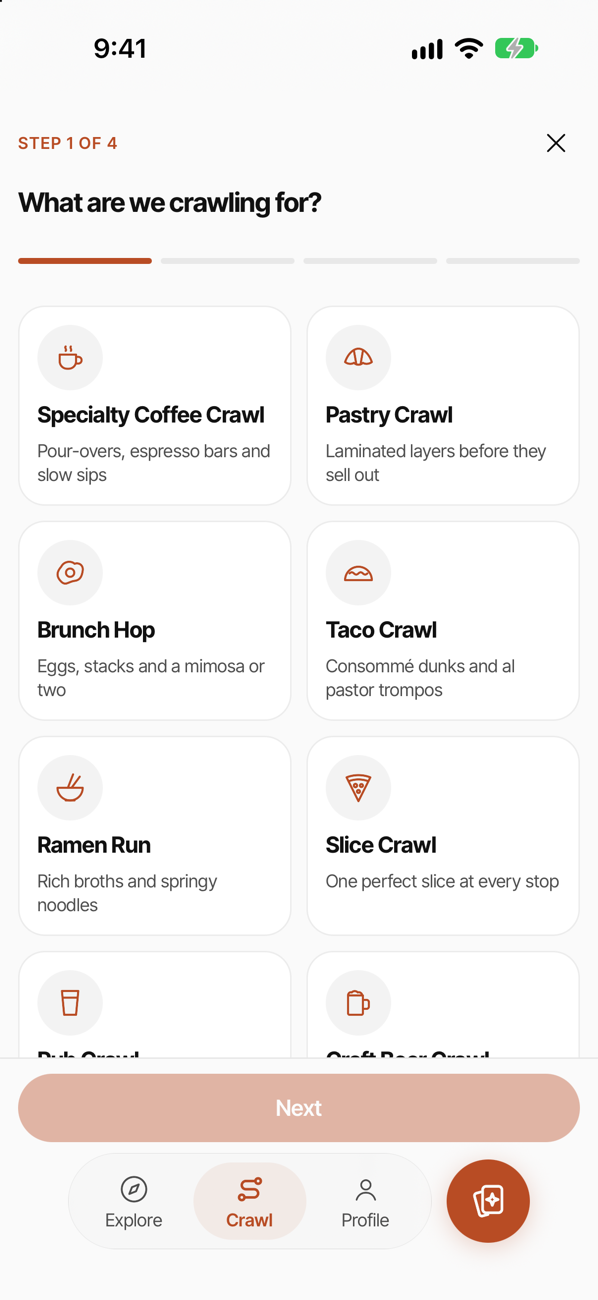
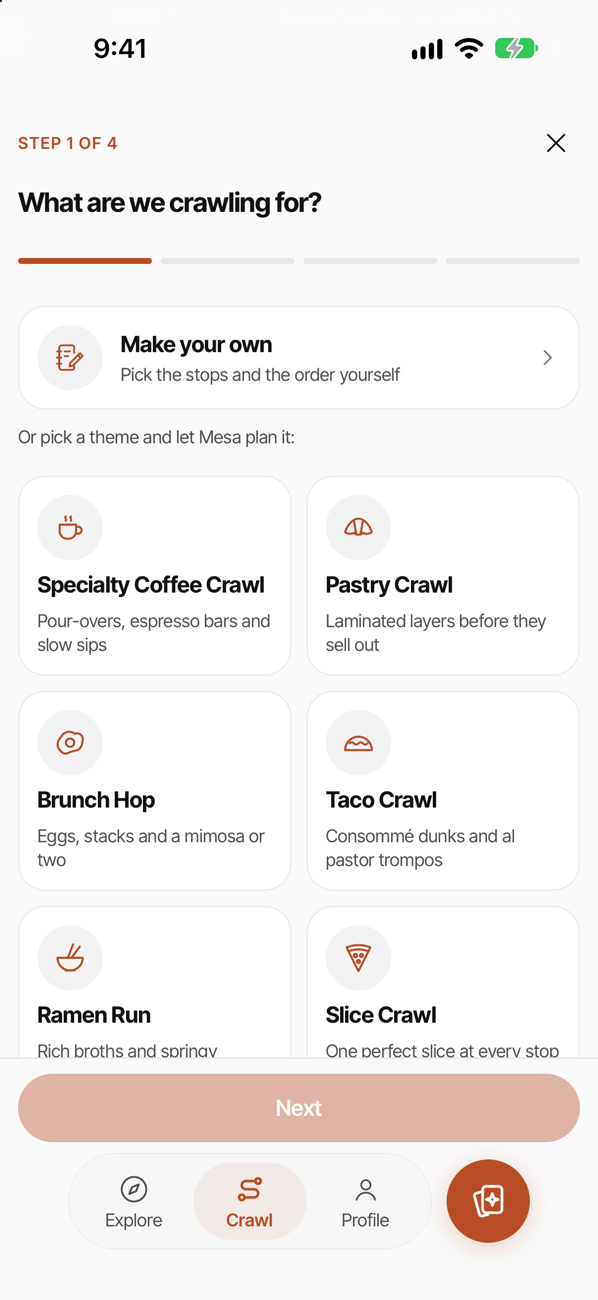
Update landing features and screenshots for friends, lists and custom crawls
New screenshots of Explore, place page, Crawl tab, a shared crawl, a shared
list and the redesigned profile; drop the old Saved shot. Add Friends and
Lists sections. Support covers opening a crawl route in Maps, picking a start
point and the new profile layout; privacy names Apple Maps and Google Maps for
directions; terms cover crawls you make and the word filter on crawl text.

diff --git a/content/terms.md b/content/terms.md
@@ -34,7 +34,7 @@ Mesa ranks places using what you tell it, information from Google Maps, public r
 
 - **Information can be wrong.** Hours, prices, menus and whether a place is open come from third parties and can lag behind real life. Check with the place before you go.
 - **Places are independent.** Mesa isn't affiliated with the places it shows and isn't responsible for their food, service, prices or premises.
-- **Routes are estimates.** Walking and driving times and crawl routes are approximate. Follow local laws, road signs and your own judgment, and pay attention to where you're going.
+- **Routes are estimates.** Walking and driving times and crawl routes are approximate. Directions you open in Apple Maps or Google Maps come from those apps, under their own terms. Follow local laws, road signs and your own judgment, and pay attention to where you're going.
 
 ## No paid rankings
 
@@ -63,7 +63,7 @@ Don't:
 - reverse engineer the app or our server, except where the law allows it;
 - interfere with Mesa or put an unreasonable load on it;
 - upload a photo you don't have the right to use, or anything unlawful, sexual or hateful;
-- put anything hateful, sexual, threatening or misleading in a name, username, bio, list or anything else other people can see;
+- put anything hateful, sexual, threatening or misleading in a name, username, bio, list, crawl or anything else other people can see;
 - pretend to be someone else, or send friend requests or links to people who've made clear they don't want them;
 - use Mesa to break the law or to harass anyone.
 
@@ -74,12 +74,12 @@ Mesa lets you add friends and share crawls and lists with them or by link. There
 - You decide who sees what. Crawls and lists are private until you share them, and you can make them private again.
 - You're responsible for what you share and who you send links to. Anyone with a link set to "Anyone with the link" can open it.
 - You can **block** anyone, which hides you from each other and ends the friendship, and you can **report** a person, a crawl or a list from the screen it's on. We review reports within 24 hours, and remove content and close accounts that break these terms.
-- Names, usernames, bios and list titles pass an automatic word filter. It won't catch everything, which is what reports are for.
+- Names, usernames, bios, list names and descriptions, and crawl titles, descriptions and notes pass an automatic word filter. It won't catch everything, which is what reports are for.
 - A friend's crawl or list is their suggestion, not ours. Check details yourself before you go.
 
 ## Your content
 
-Your profile photo, name, username, bio, preferences, lists and anything you type into Mesa stay yours. You give us permission to store, process and display them only as needed to run Mesa for you, which includes showing what you share to the people you share it with. That includes sending them to the service providers named in the [privacy policy](/privacy/#who-we-share-data-with): Supabase for storage, Amazon Web Services for hosting, Google for maps and place search, and Anthropic for AI picks if you turn them on. We don't sell your content or use it to train AI models.
+Your profile photo, name, username, bio, preferences, lists, the crawls you make and anything you type into Mesa stay yours. You give us permission to store, process and display them only as needed to run Mesa for you, which includes showing what you share to the people you share it with. That includes sending them to the service providers named in the [privacy policy](/privacy/#who-we-share-data-with): Supabase for storage, Amazon Web Services for hosting, Google for maps and place search, and Anthropic for AI picks if you turn them on. We don't sell your content or use it to train AI models.
 
 We may use totals that don't identify anyone, such as how many searches Mesa ran in a day, to run and improve Mesa.
 

diff --git a/content/support.md b/content/support.md
@@ -30,7 +30,7 @@ Yes. Tap the location pill at the top of Explore, then search for a neighborhood
 
 ### How do I change what Mesa suggests?
 
-Tap the round sliders button at the top of Explore, or Profile → My taste. Set your vibes, budget, cuisines, allergies and diet, and how far you'll walk or drive. You can add your own words too, like "rooftop" or "dim sum". Your picks update right away.
+Tap the round sliders button at the top of Explore or Profile. Set your vibes, budget, cuisines, allergies and diet, and how far you'll walk or drive. You can add your own words too, like "rooftop" or "dim sum". Your picks update right away.
 
 ### What does the match % mean?
 
@@ -99,6 +99,14 @@ Open the Crawl tab. Pick a theme, add a vibe or two if you like, choose walking 
 
 Yes. On the Crawl tab, tap "Make your own". Give it a title, add 2 to 8 places from search or your saved spots, and put them in the order you want. You can also add a place from its page with the crawl button at the top. Mesa works out the walking or driving time between stops and tells you if a place will be closed when you'd get there. "Best order" finds the shortest route.
 
+### Can I get directions for the whole crawl?
+
+Open the crawl and tap "Open route in Maps", then pick Apple Maps or Google Maps. Every stop goes in, in order, starting from where you are. On iPhones older than iOS 18.4, Apple Maps only takes the first stop, so add the rest there or use Google Maps. "Copy addresses" gives you the list to paste anywhere.
+
+### Can I start a crawl somewhere other than where I am?
+
+Yes. Tap "Change" next to "Starting from" and pick another neighborhood or address. It works the same for crawls Mesa plans, crawls you make yourself, and Wildcard ("Looking near"). Explore keeps using your own location.
+
 ### Can I change a crawl after it's saved?
 
 Open it and tap the edit button at the top. You can add, remove and reorder stops, add notes, or change the start, on crawls you made and on ones Mesa planned. A finished crawl can't be edited.
@@ -123,11 +131,11 @@ Save it to keep it on your profile, tap "I'm in" to let them know you're coming,
 
 ### How do I add a friend?
 
-Profile → Friends. Type their username and tap Find to open their page, then "Add friend". You're friends once they accept. If you invite someone to Mesa with one of your invite codes, you're friends as soon as they use it.
+On Profile, tap "Find friends" (or your friend count once you have some). Type their username and tap Find to open their page, then "Add friend". You're friends once they accept. If you invite someone to Mesa with one of your invite codes, you're friends as soon as they use it.
 
 ### Where are my invite codes?
 
-Profile → Friends → Your invite codes, while Mesa is invite-only. Each code lets one person in. Tap "Send" to share one.
+On Profile, tap your friends, then "Your invite codes". They're there while Mesa is invite-only. Each code lets one person in. Tap "Send" to share one.
 
 ### What can my friends see?
 
@@ -135,7 +143,7 @@ Your name, username, photo and bio, your profile counts (spots saved, cities, cr
 
 ### How do I remove a friend?
 
-Tap their photo on your Profile (or Profile → Friends and their name), then "Remove friend". They aren't told.
+On Profile, tap your friends, then their name, then "Remove friend". They aren't told.
 
 ### How do I block someone?
 

diff --git a/content/privacy.md b/content/privacy.md
@@ -127,7 +127,7 @@ We share data only with service providers that run Mesa for us:
 - **Anthropic and Google Gemini (AI), public place data only**, as described above.
 - **Apple / Google sign-in**, if you choose them.
 
-Some things leave Mesa only because you ask them to: tapping "Take me there" opens your maps app with the spot's location, sharing a spot, crawl, list or invite code goes through your phone's share sheet, and press links open in your browser.
+Some things leave Mesa only because you ask them to: "Take me there" and "Open route in Maps" open Apple Maps or Google Maps (you pick) with the names and addresses of the spot or the crawl's stops, sharing a spot, crawl, list or invite code goes through your phone's share sheet, and press links open in your browser.
 
 Other people on Mesa see what you share with them, as described under [Friends and sharing](#friends-and-sharing).
 
